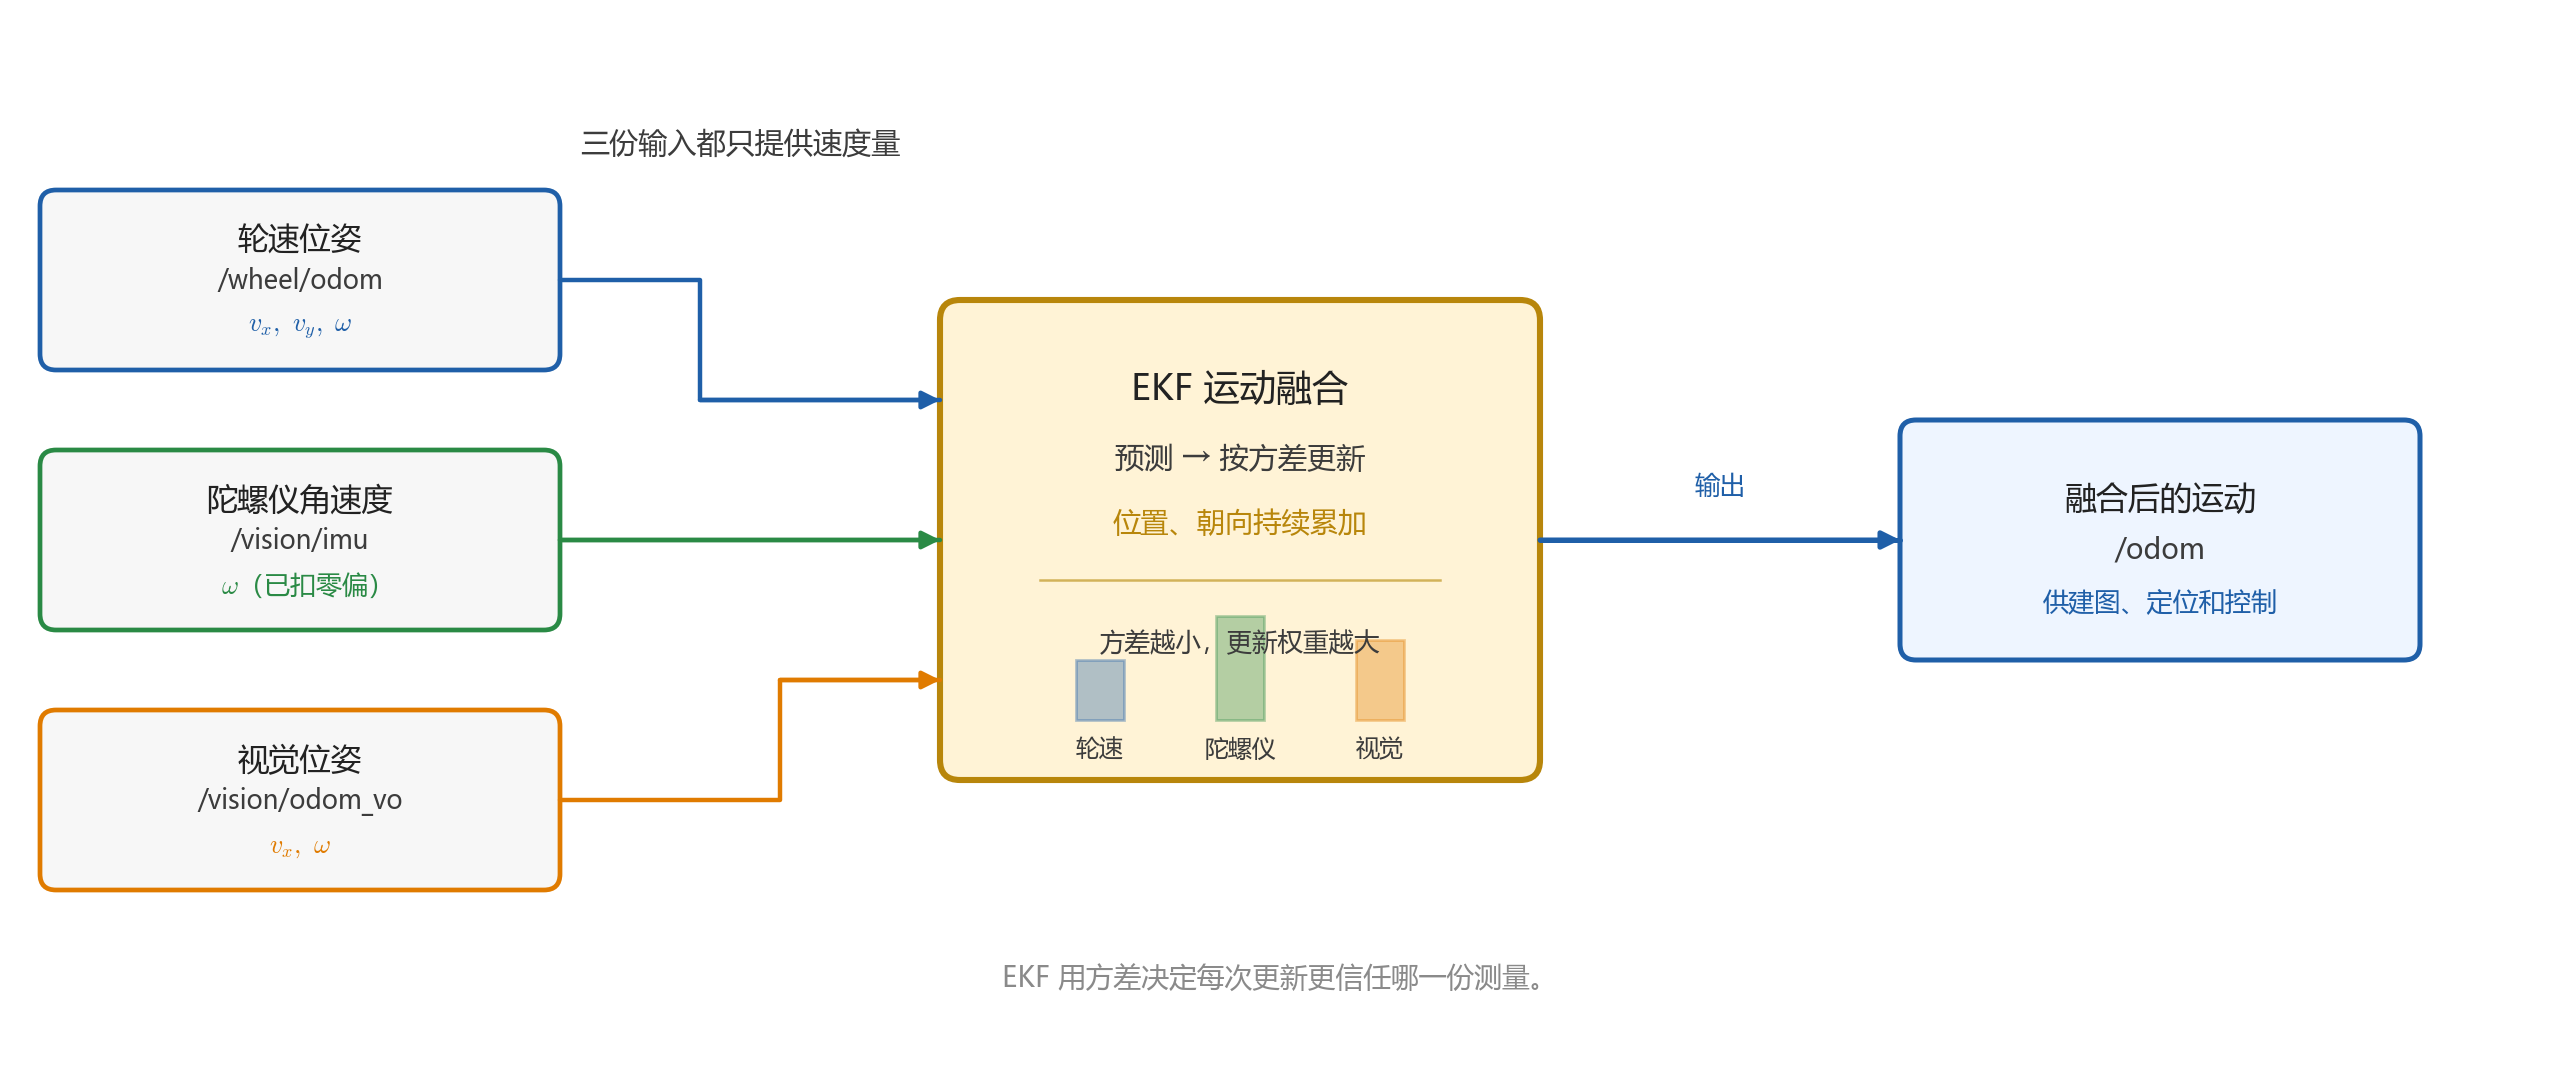
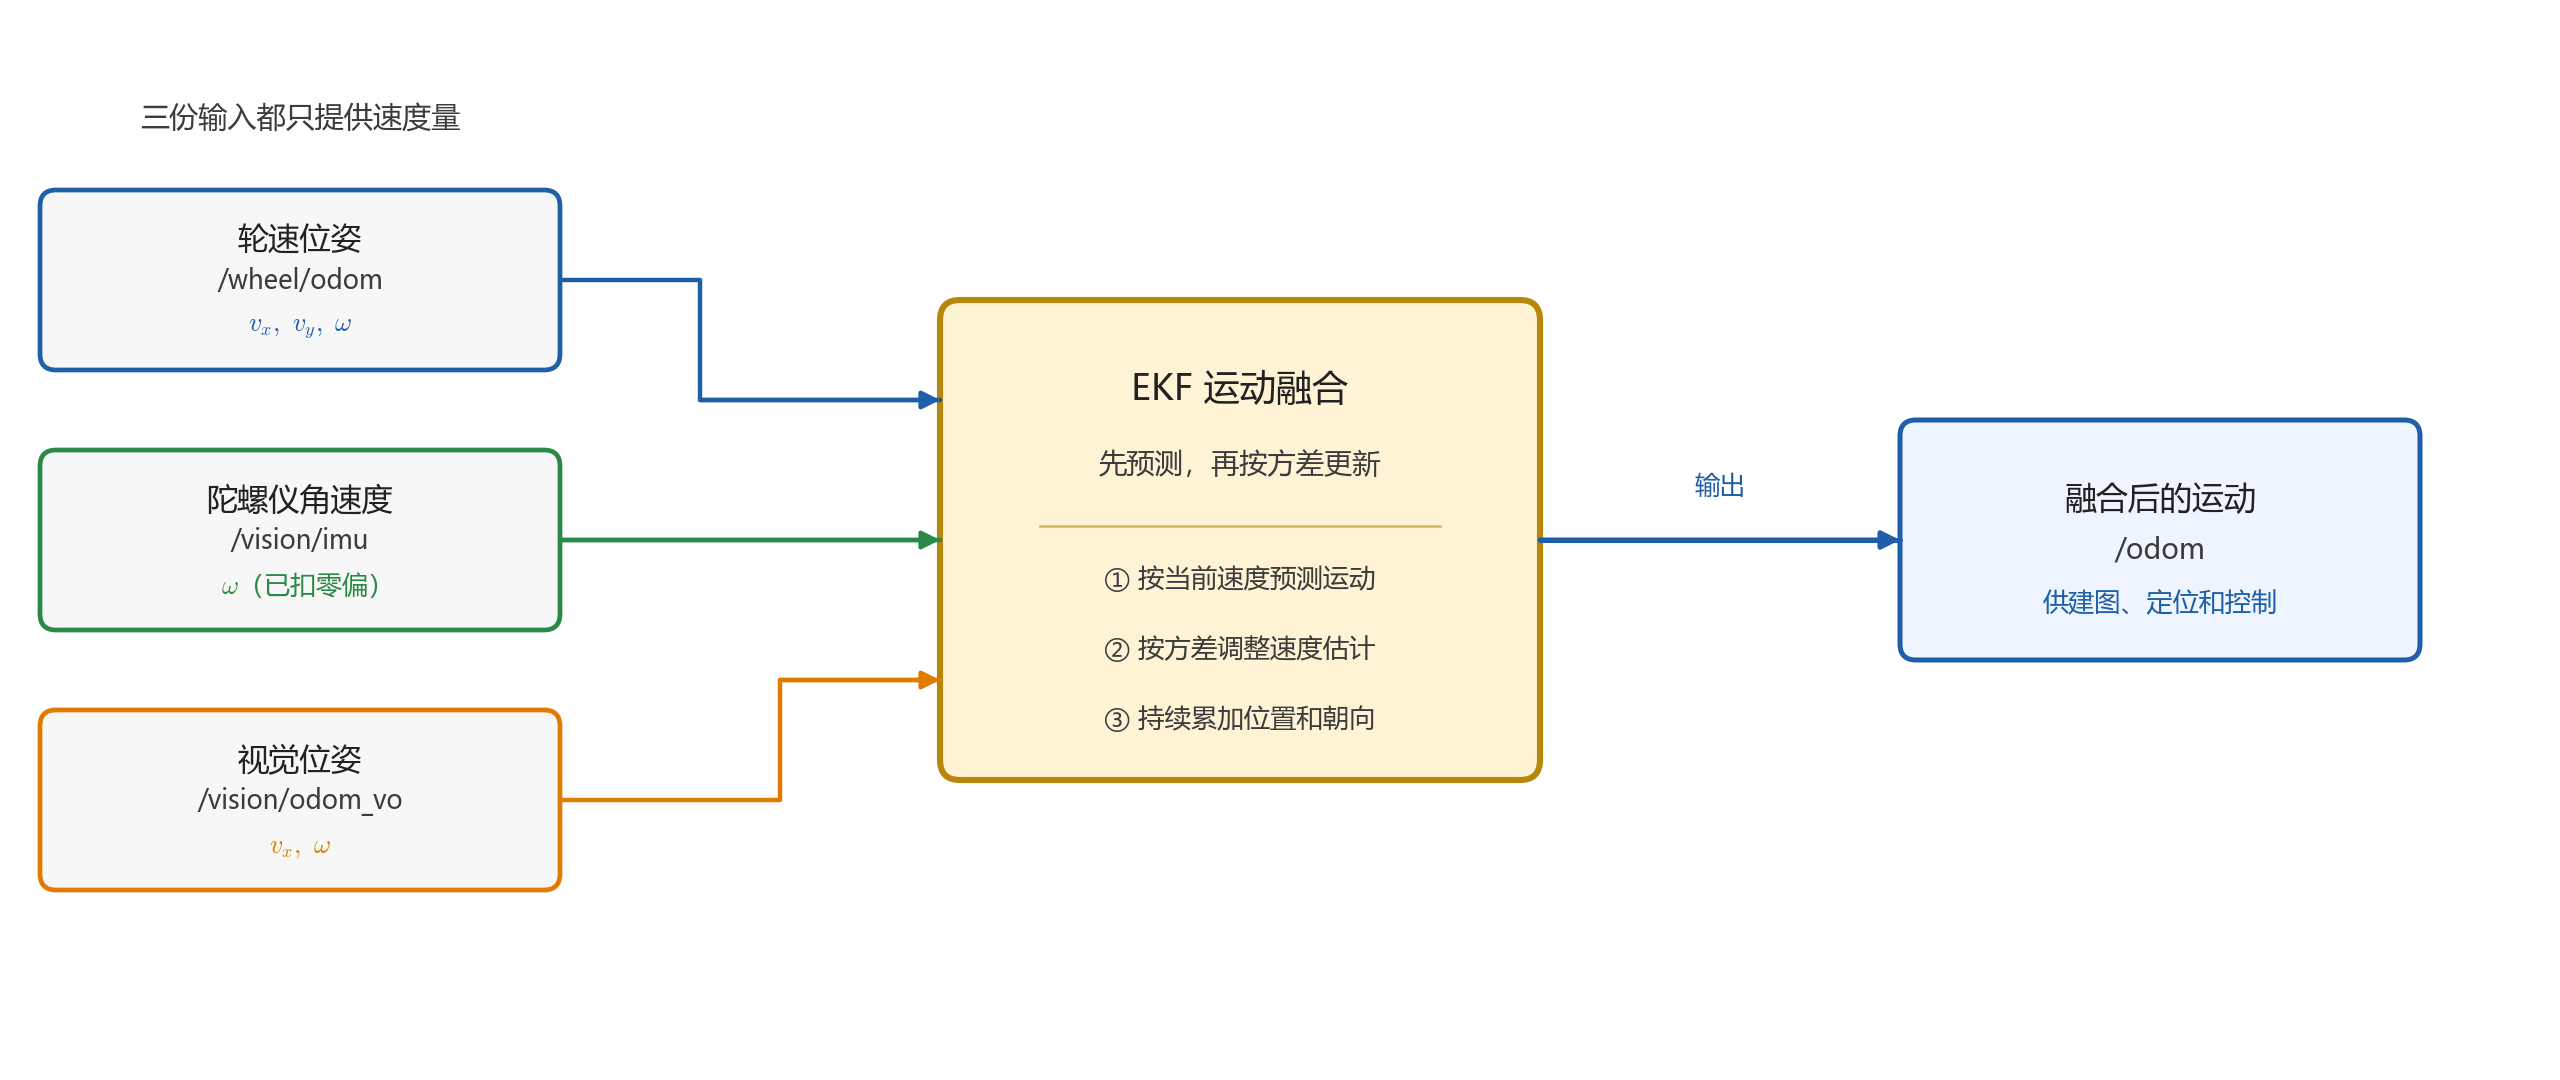
docs: refine fusion and recovery diagrams

diff --git a/docs/06-sensors-navigation/38-visual-runtime.md b/docs/06-sensors-navigation/38-visual-runtime.md
@@ -418,7 +418,7 @@ $$
 
 下图把三份输入在融合中的职责放在一起。它们都只提供速度量，EKF 节点先按速度预测，再根据各自的方差调整估计，最后把累加得到的运动发布在 `/odom`。
 
-![三份运动输入进入 EKF 融合。轮速、陀螺仪和视觉分别提供速度量，EKF 按方差调整它们的权重并输出 `/odom`](assets/sensor-fusion.png?v=2)
+![三份运动输入进入 EKF 融合。轮速、陀螺仪和视觉分别提供速度量，EKF 按方差调整它们的权重并输出 `/odom`](assets/sensor-fusion.png?v=3)
 
 三份输入都只提供速度量，位置和朝向由 EKF 节点自己累加。这样，任一输入重新从零开始时，融合后的运动也不会跳变。视觉输入还要经过检查：如果一个测量与当前估计的差超过两者合起来的 3 倍标准差，EKF 节点就丢弃它。这种以标准差为单位衡量的差称为**马氏距离**（Mahalanobis Distance），用于防止一帧错误匹配拉偏融合结果。
 
@@ -714,7 +714,7 @@ angular:
 
 下图显示了失败后的处理顺序。第一次恢复只清除相应代价地图，仍失败后才进入最多 6 轮的恢复循环。
 
-![导航失败后的恢复顺序。先清除对应代价地图重试，仍失败时轮流清图、倒退或等待，再重新规划](assets/recovery-sequence.png?v=2)
+![导航失败后的恢复顺序。先清除对应代价地图重试，仍失败时轮流清图、倒退或等待，再重新规划](assets/recovery-sequence.png?v=3)
 
 ## 7.3 看门狗
 
